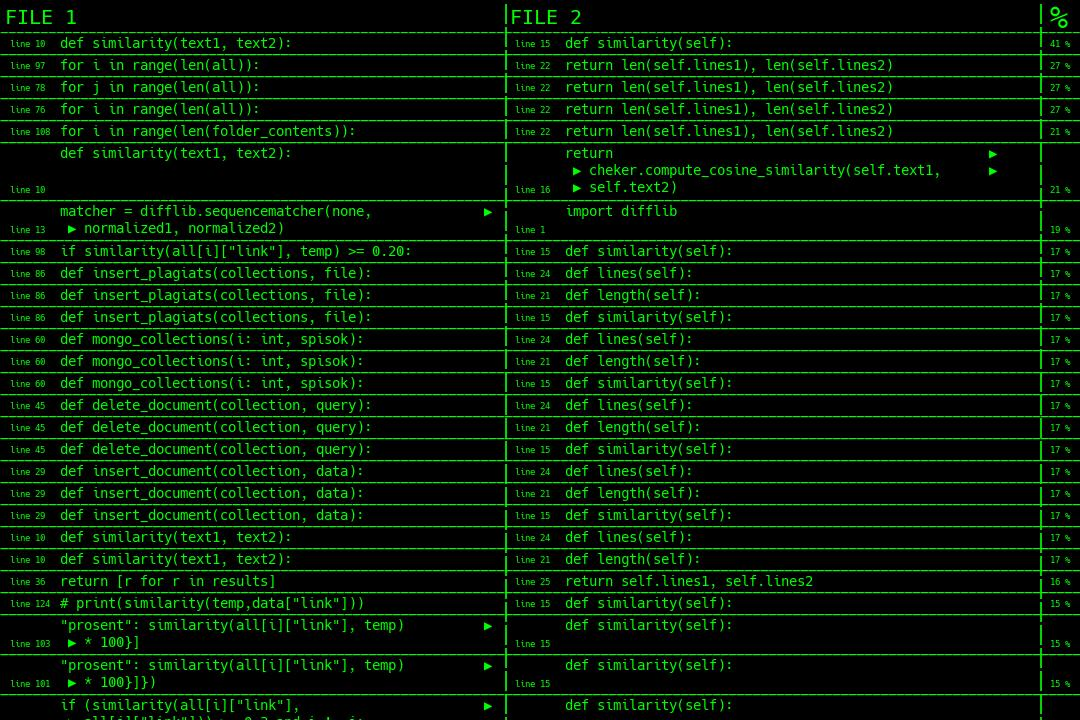
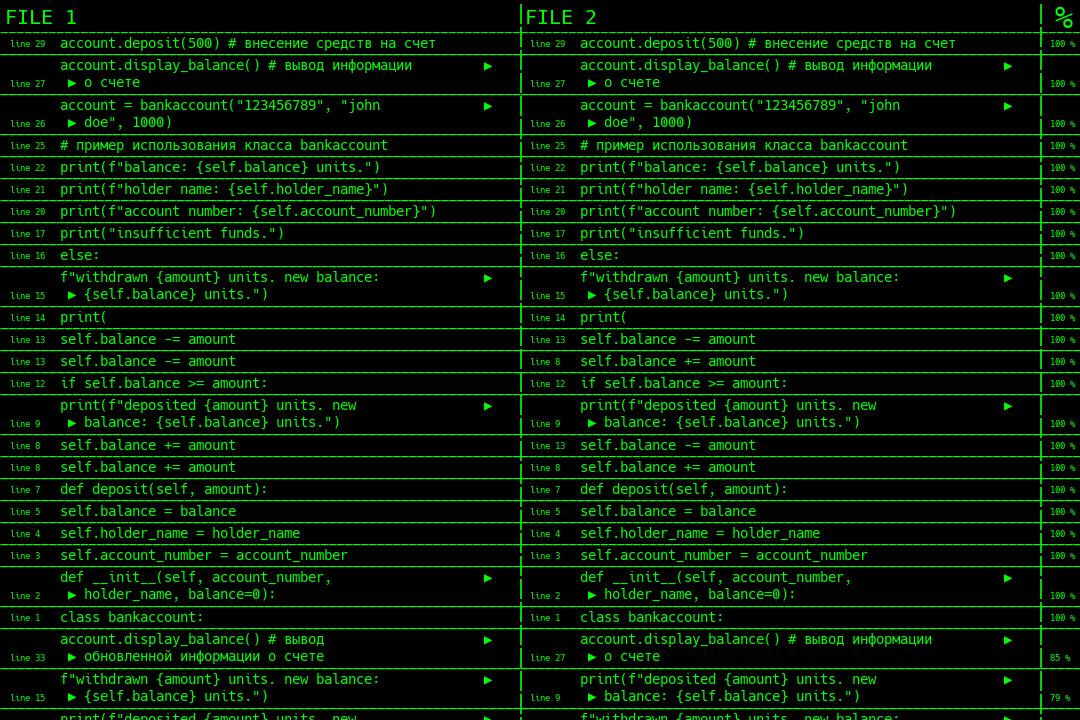
pics generation

Changed region(s): [[0.0, 0.0, 1.0, 1.0]]

diff --git a/application.py b/application.py
@@ -23,7 +23,7 @@ def code_to_image(lines1, line_number1, percentage1, lines2, line_number2):
 
         font = ImageFont.truetype("fonts/Hack-Regular.ttf", size=14)
         idraw = ImageDraw.Draw(img)
-        idraw.text((505 + 60, 35 + i * 22 + n1 * 18), line, font=font, fill=(0, 255, 0))
+        idraw.text((520 + 60, 35 + i * 22 + n1 * 18), line, font=font, fill=(0, 255, 0))
 
         n1 += max(len(line.strip().split('\n')) - 1, len(line1.strip().split('\n')) - 1)
 
@@ -45,7 +45,7 @@ def code_to_image(lines1, line_number1, percentage1, lines2, line_number2):
 
         font = ImageFont.truetype("fonts/Hack-Regular.ttf", size=9)
         idraw = ImageDraw.Draw(img)
-        idraw.text((505 + 10, 38 + i * 22 + n1 * 18), "line " + str(line_number2[i] + 1), font=font, fill=(0, 255, 0))
+        idraw.text((520 + 10, 38 + i * 22 + n1 * 18), "line " + str(line_number2[i] + 1), font=font, fill=(0, 255, 0))
 
     font = ImageFont.truetype("fonts/Hack-Regular.ttf", size=14)
     idraw = ImageDraw.Draw(img)
@@ -56,11 +56,11 @@ def code_to_image(lines1, line_number1, percentage1, lines2, line_number2):
 
     font = ImageFont.truetype("fonts/Hack-Regular.ttf", size=20)
     idraw = ImageDraw.Draw(img)
-    idraw.text((505 + 5, 5), "FILE 2", font=font, fill=(0, 255, 0))
+    idraw.text((520 + 5, 5), "FILE 2", font=font, fill=(0, 255, 0))
 
     font = ImageFont.truetype("fonts/Hack-Regular.ttf", size=20)
     idraw = ImageDraw.Draw(img)
-    idraw.text((500, 0), "|\n"*150, font=font, fill=(0, 255, 0))
+    idraw.text((515, 0), "|\n"*150, font=font, fill=(0, 255, 0))
 
     font = ImageFont.truetype("fonts/Hack-Regular.ttf", size=20)
     idraw = ImageDraw.Draw(img)
@@ -68,7 +68,7 @@ def code_to_image(lines1, line_number1, percentage1, lines2, line_number2):
 
     font = ImageFont.truetype("fonts/Hack-Regular.ttf", size=30)
     idraw = ImageDraw.Draw(img)
-    idraw.text((1050, 0), "%", font=font, fill=(0, 255, 0))
+    idraw.text((1055, 0), "%", font=font, fill=(0, 255, 0))
 
     img.save('pic/pic1.jpg')
 
@@ -109,4 +109,4 @@ def pics_gen(path1, path2):
     return sim
 
 
-pics_gen('MongoDB.py', 'text_comparer.py')
+print(pics_gen('test1.py', 'test2.py'))

diff --git a/test2.py b/test2.py
@@ -1,13 +1,35 @@
 class BankAccount:
-
     def __init__(self, account_number, holder_name, balance=0):
-        self.account_numberasdfsadfsa = account_number
-        self.holder_nameasdfsdfsaf = holder_name
-        self.balanceadfsafsaf = balance
+        self.account_number = account_number
+        self.holder_name = holder_name
+        self.balance = balance
 
-    def depositasdadsad(self, amount):
-        self.balanceNOTOPJOMo += amount
+    def deposit(self, amount):
+        self.balance += amount
         print(f"Deposited {amount} units. New balance: {self.balance} units.")
+
+    def func1(self, amount):
+        if self.balance >= amount:
+            self.balance -= amount
+            print(f"Withdrawn {amount} units. New balance: {self.balance} units.")
+        else:
+            print("Insufficient funds.")
+
+    def func2(self):
+        print(f"Account Number: {self.account_number}")
+        print(f"Holder Name: {self.holder_name}")
+        print(f"Balance: {self.balance} units.")
+
+
+# Пример использования класса BankAccount
+account = BankAccount("123456789", "John Doe", 1000)
+account.display_balance()  # Вывод информации о счете
+
+account.deposit(500)  # Внесение средств на счет
+account.func1(200)  # Снятие средств со счета
+account.func1(1500)  # Попытка снятия суммы, превышающей баланс
+
+account.func2()  # Вывод обновленной информации о счете
 
 
 

diff --git a/cheker.py b/cheker.py
@@ -7,7 +7,7 @@ import numpy as np
 def compute_cosine_similarity(text1, text2):
 	list_text = [text1, text2]
 
-	vectorizer = TfidfVectorizer(stop_words='english')
+	vectorizer = TfidfVectorizer()
 	vectorizer.fit_transform(list_text)
 	tfidf_text1, tfidf_text2 = vectorizer.transform([list_text[0]]), vectorizer.transform([list_text[1]])
 
